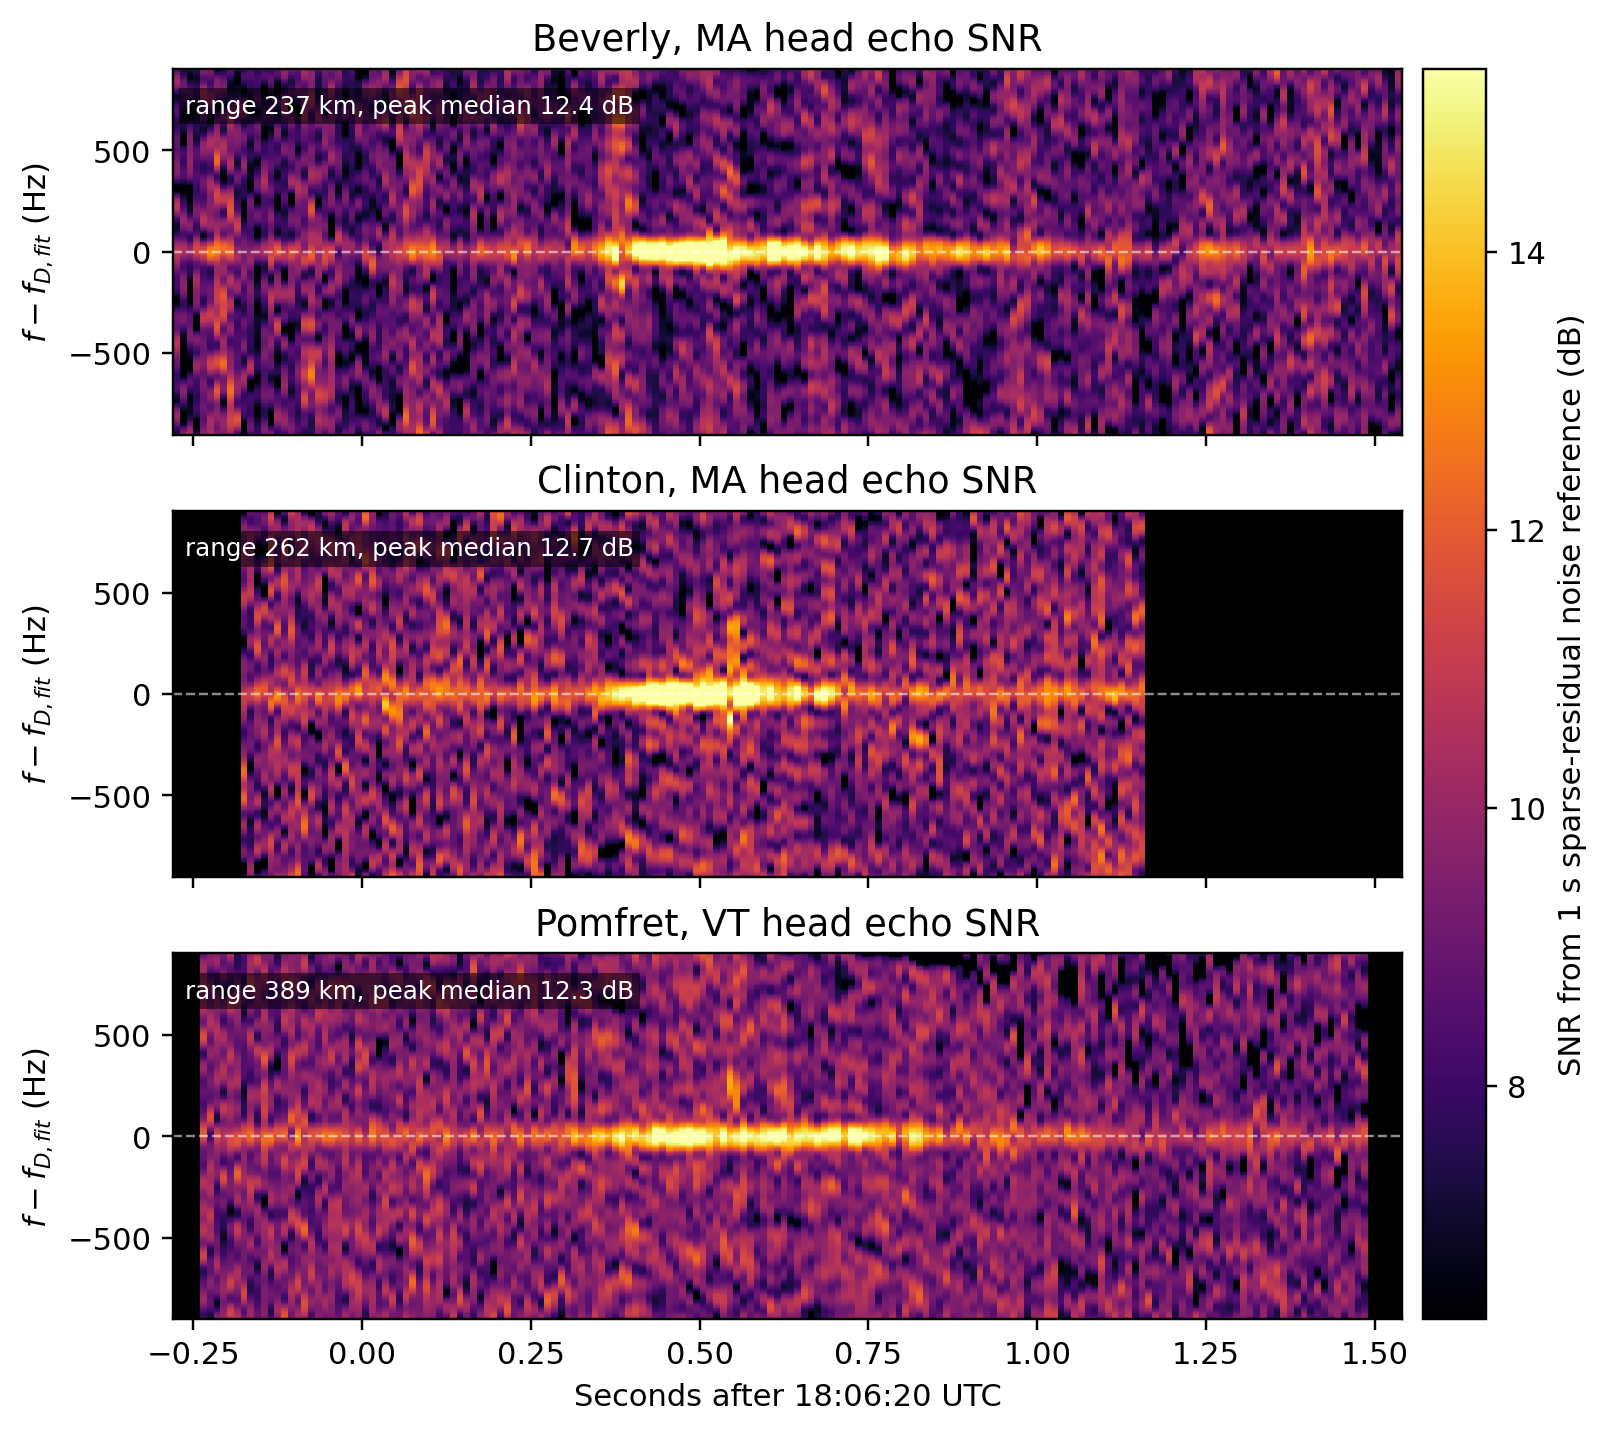
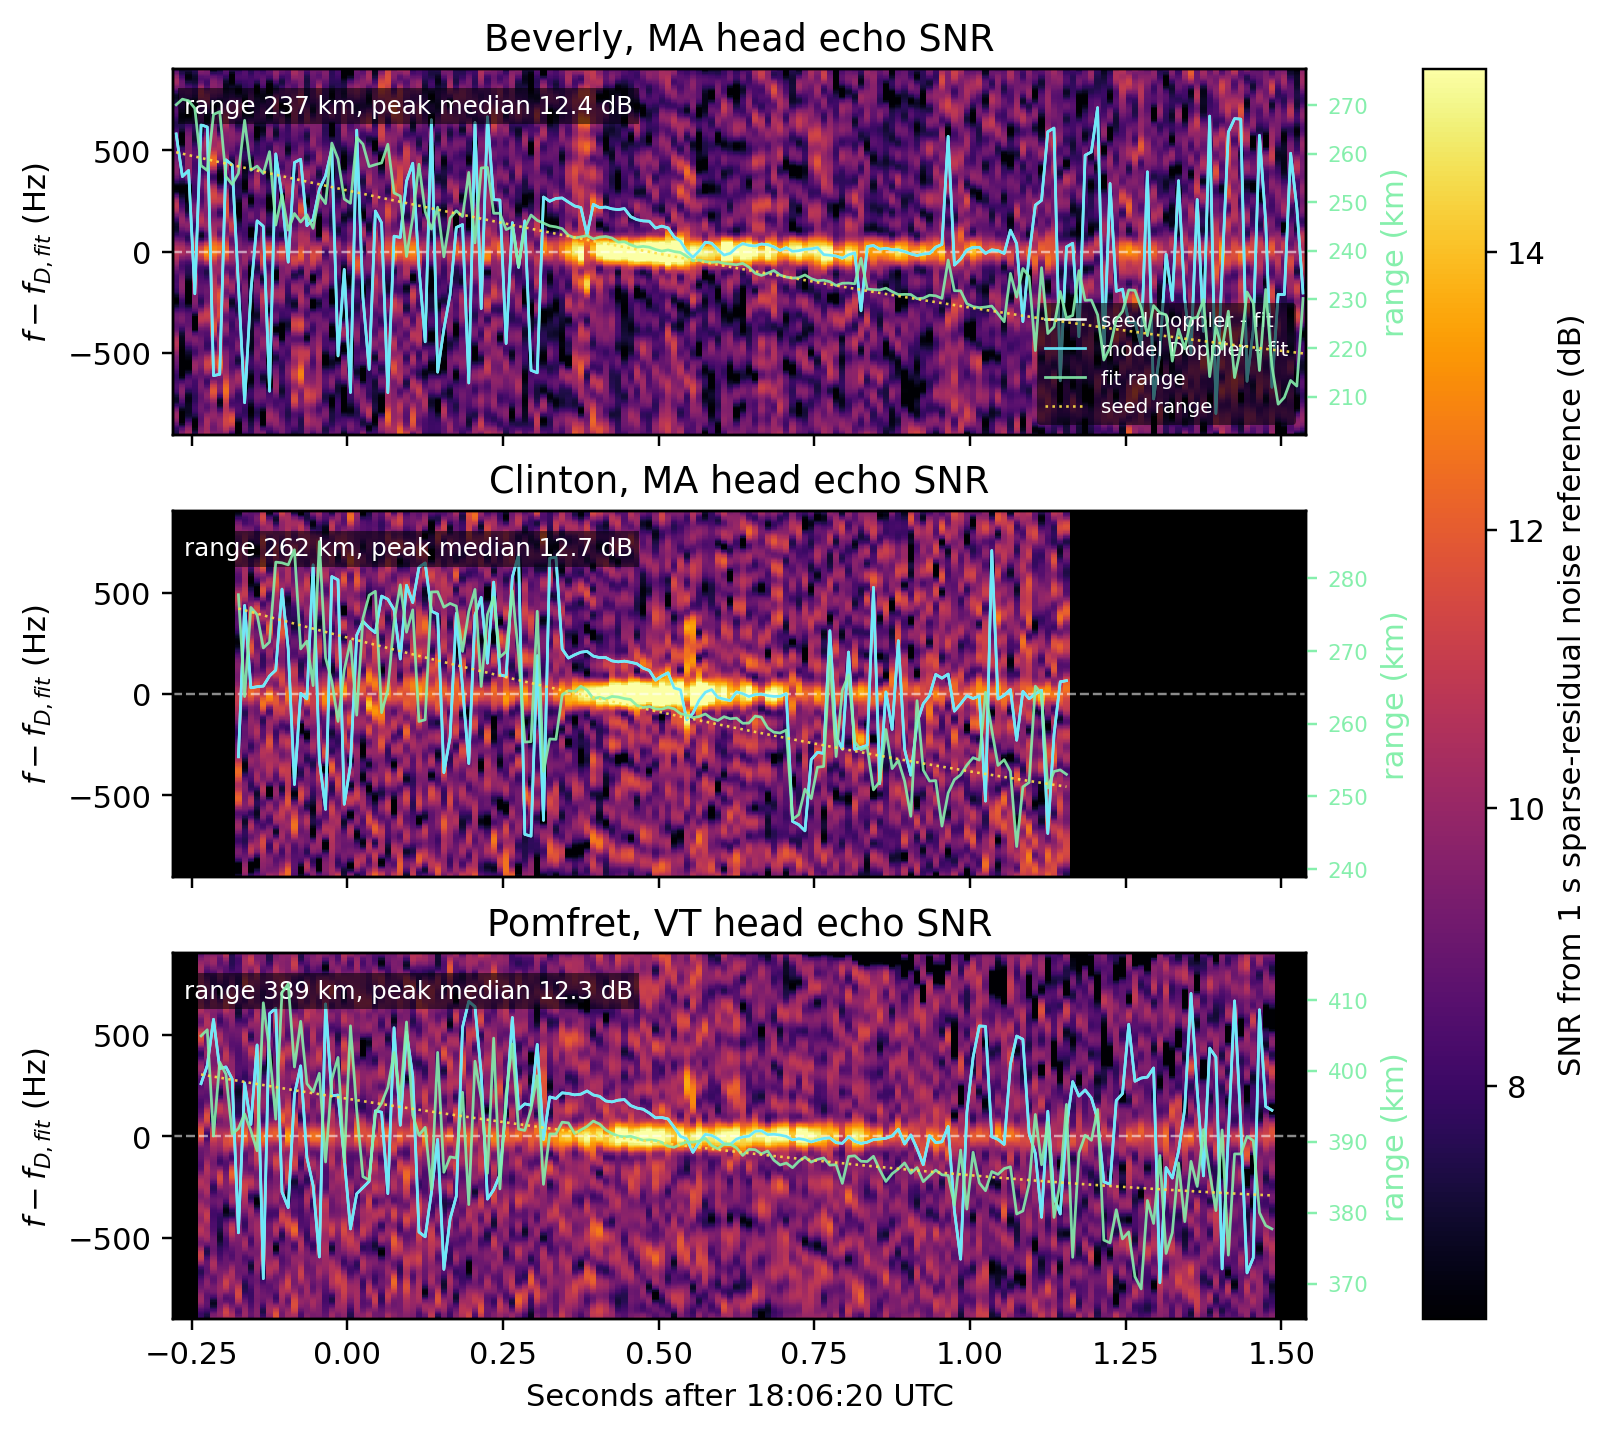
Overlay head echo fit diagnostics on SNR figure

diff --git a/reports/generate_head_echo_snr_from_noise_reference.py b/reports/generate_head_echo_snr_from_noise_reference.py
@@ -115,8 +115,13 @@ def process_station(
                 "idx": idx,
                 "time_unix": float(fit["time_unix"]),
                 "time_rel_s": float(fit["time_rel_s"]),
+                "seed_range_m": float(fit["seed_range_m"]),
                 "fit_range_m": fit_range_m,
+                "range_correction_m": float(fit["range_correction_m"]),
+                "seed_doppler_hz": float(fit["seed_doppler_hz"]),
                 "fit_doppler_hz": float(fit["fit_doppler_hz"]),
+                "doppler_correction_hz": float(fit["doppler_correction_hz"]),
+                "model_doppler_hz": float(fit["model_doppler_hz"]),
                 "fit_rel_doppler_hz": fit_rel_hz,
                 "noise_100khz_power": noise_100khz,
                 "noise_100hz_power": noise_100khz / 1000.0,
@@ -137,8 +142,14 @@ def process_station(
         "station": station,
         "time_rel": np.asarray([row["time_rel_s"] for row in rows], dtype=float),
         "time_unix": np.asarray([row["time_unix"] for row in rows], dtype=float),
+        "seed_ranges_km": np.asarray([row["seed_range_m"] / 1000.0 for row in rows], dtype=float),
         "ranges_km": np.asarray([row["fit_range_m"] / 1000.0 for row in rows], dtype=float),
+        "range_corrections_m": np.asarray([row["range_correction_m"] for row in rows], dtype=float),
+        "seed_dopplers_hz": np.asarray([row["seed_doppler_hz"] for row in rows], dtype=float),
         "fit_dopplers_hz": np.asarray([row["fit_doppler_hz"] for row in rows], dtype=float),
+        "doppler_corrections_hz": np.asarray([row["doppler_correction_hz"] for row in rows], dtype=float),
+        "model_dopplers_hz": np.asarray([row["model_doppler_hz"] for row in rows], dtype=float),
+        "fit_rel_dopplers_hz": np.asarray([row["fit_rel_doppler_hz"] for row in rows], dtype=float),
         "rel_freqs": rel_ref,
         "snr_db": spectra,
         "peak_snr_db": np.asarray([row["peak_snr_db"] for row in rows], dtype=float),
@@ -173,8 +184,14 @@ def save_results(results: list[dict], rows_by_station: dict[str, list[dict]], ar
             for key in (
                 "time_rel",
                 "time_unix",
+                "seed_ranges_km",
                 "ranges_km",
+                "range_corrections_m",
+                "seed_dopplers_hz",
                 "fit_dopplers_hz",
+                "doppler_corrections_hz",
+                "model_dopplers_hz",
+                "fit_rel_dopplers_hz",
                 "rel_freqs",
                 "snr_db",
                 "peak_snr_db",
@@ -199,7 +216,11 @@ def load_results(path: Path) -> tuple[list[dict], dict]:
                 {
                     "station": station,
                     "time_rel": g["time_rel"][()],
+                    "seed_ranges_km": g["seed_ranges_km"][()] if "seed_ranges_km" in g else g["ranges_km"][()],
                     "ranges_km": g["ranges_km"][()],
+                    "seed_dopplers_hz": g["seed_dopplers_hz"][()] if "seed_dopplers_hz" in g else g["fit_dopplers_hz"][()],
+                    "fit_dopplers_hz": g["fit_dopplers_hz"][()] if "fit_dopplers_hz" in g else np.zeros_like(g["time_rel"][()]),
+                    "model_dopplers_hz": g["model_dopplers_hz"][()] if "model_dopplers_hz" in g else g["fit_dopplers_hz"][()],
                     "rel_freqs": g["rel_freqs"][()],
                     "snr_db": g["snr_db"][()],
                     "peak_snr_db": g["peak_snr_db"][()],
@@ -228,6 +249,21 @@ def plot_results(results: list[dict], out_fig: Path) -> None:
             vmax=vmax,
         )
         ax.axhline(0.0, color="white", lw=0.8, ls="--", alpha=0.55)
+        seed_rel_hz = res["seed_dopplers_hz"] - res["fit_dopplers_hz"]
+        model_rel_hz = res["model_dopplers_hz"] - res["fit_dopplers_hz"]
+        ax.plot(res["time_rel"], seed_rel_hz, color="white", lw=0.85, alpha=0.95, label="seed Doppler - fit")
+        ax.plot(res["time_rel"], model_rel_hz, color="#67e8f9", lw=0.9, alpha=0.95, label="model Doppler - fit")
+        range_ax = ax.twinx()
+        range_ax.plot(res["time_rel"], res["ranges_km"], color="#86efac", lw=0.9, alpha=0.9, label="fit range")
+        range_ax.plot(res["time_rel"], res["seed_ranges_km"], color="#fde047", lw=0.85, ls=":", alpha=0.9, label="seed range")
+        range_vals = np.concatenate([res["ranges_km"], res["seed_ranges_km"]])
+        range_vals = range_vals[np.isfinite(range_vals)]
+        if range_vals.size:
+            center = 0.5 * (float(np.nanmin(range_vals)) + float(np.nanmax(range_vals)))
+            half_span = max(0.5 * (float(np.nanmax(range_vals)) - float(np.nanmin(range_vals))), 0.75)
+            range_ax.set_ylim(center - 1.2 * half_span, center + 1.2 * half_span)
+        range_ax.set_ylabel("range (km)", color="#86efac")
+        range_ax.tick_params(axis="y", colors="#86efac", labelsize=7)
         ax.set_ylabel("$f-f_{D,fit}$ (Hz)")
         ax.set_title(f"{STATION_LABELS[res['station']]} head echo SNR")
         ax.text(
@@ -241,6 +277,19 @@ def plot_results(results: list[dict], out_fig: Path) -> None:
             va="top",
             bbox={"facecolor": "black", "alpha": 0.55, "edgecolor": "none", "pad": 2},
         )
+        if ax is axes[0]:
+            handles, labels = ax.get_legend_handles_labels()
+            range_handles, range_labels = range_ax.get_legend_handles_labels()
+            ax.legend(
+                handles + range_handles,
+                labels + range_labels,
+                loc="lower right",
+                fontsize=6.5,
+                framealpha=0.55,
+                facecolor="black",
+                edgecolor="none",
+                labelcolor="white",
+            )
     axes[-1].set_xlabel("Seconds after 18:06:20 UTC")
     if mappable is not None:
         cb = fig.colorbar(mappable, ax=axes, pad=0.012)
